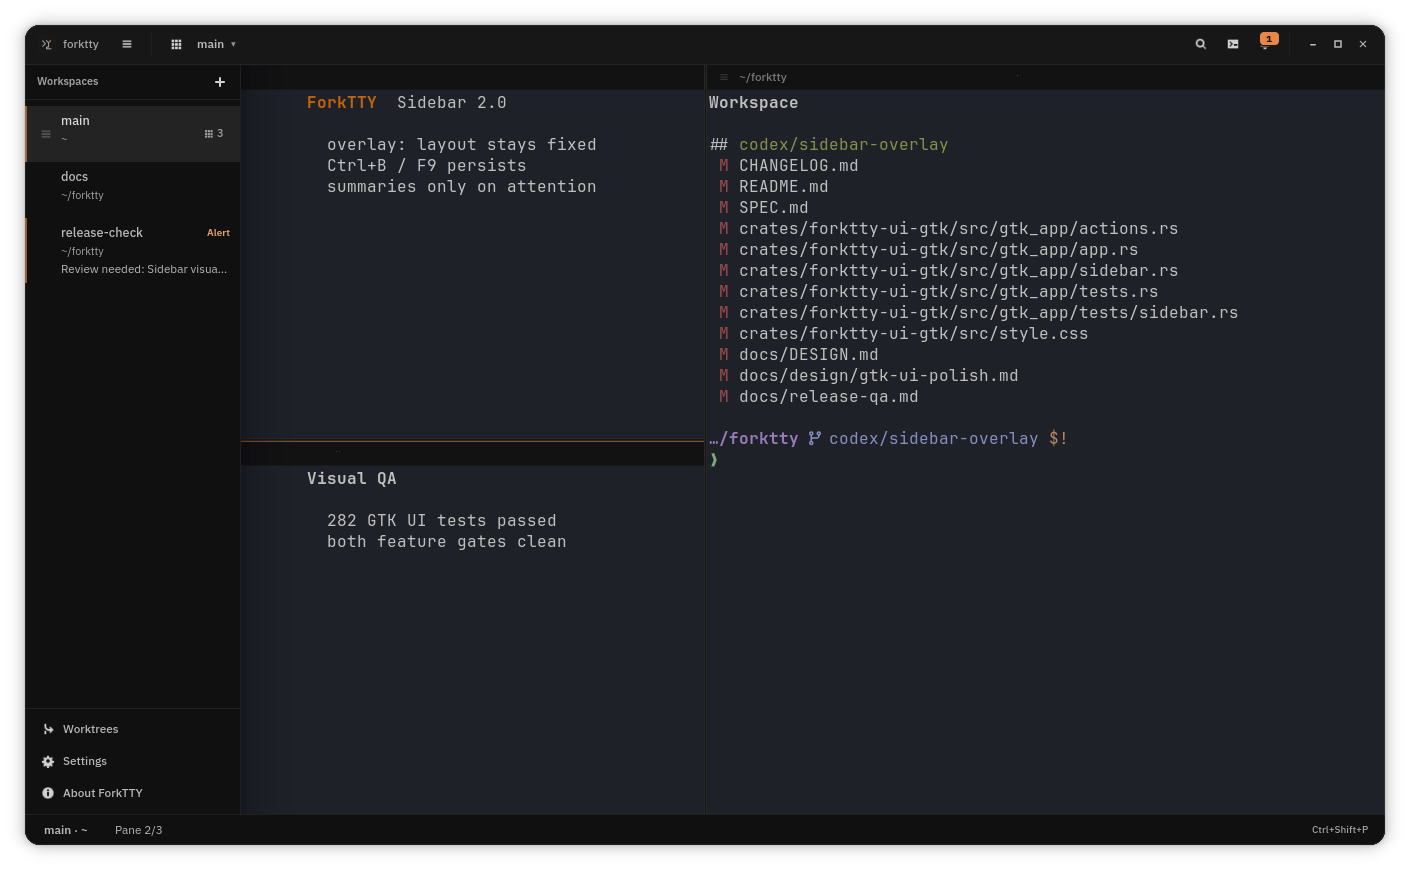
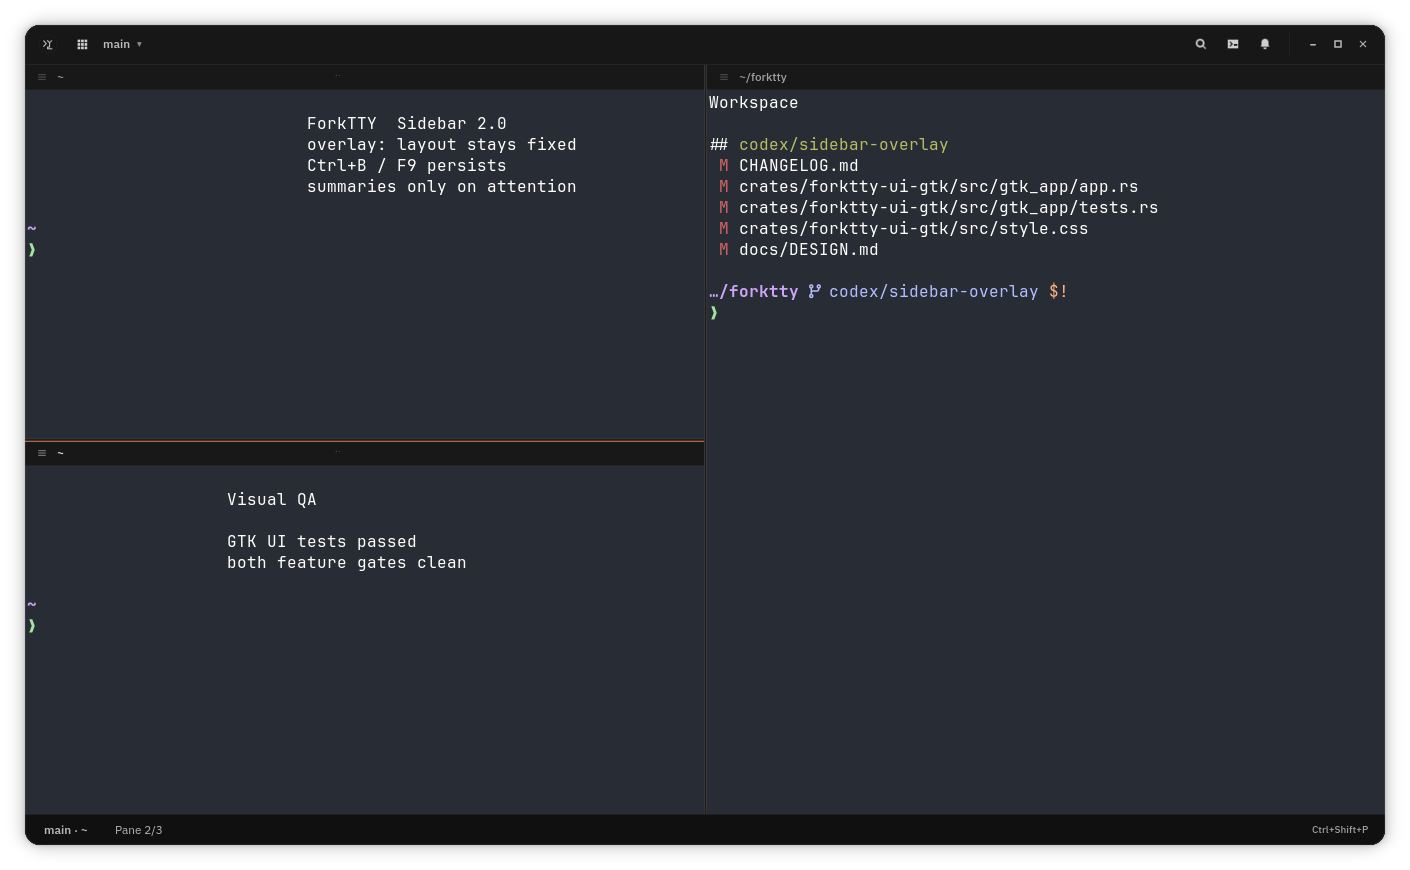
docs: refresh simplified top bar screenshot

diff --git a/components/Hero.tsx b/components/Hero.tsx
@@ -103,7 +103,7 @@ export function Hero() {
         >
           <Image
             src="/screenshots/forktty-workspace.png"
-            alt="ForkTTY workspace with three split terminals and the compact overlay sidebar"
+            alt="ForkTTY workspace with three split terminals and a compact content-first titlebar"
             width={1410}
             height={870}
             sizes="(min-width: 1280px) 1152px, (min-width: 640px) calc(100vw - 4rem), calc(100vw - 3rem)"